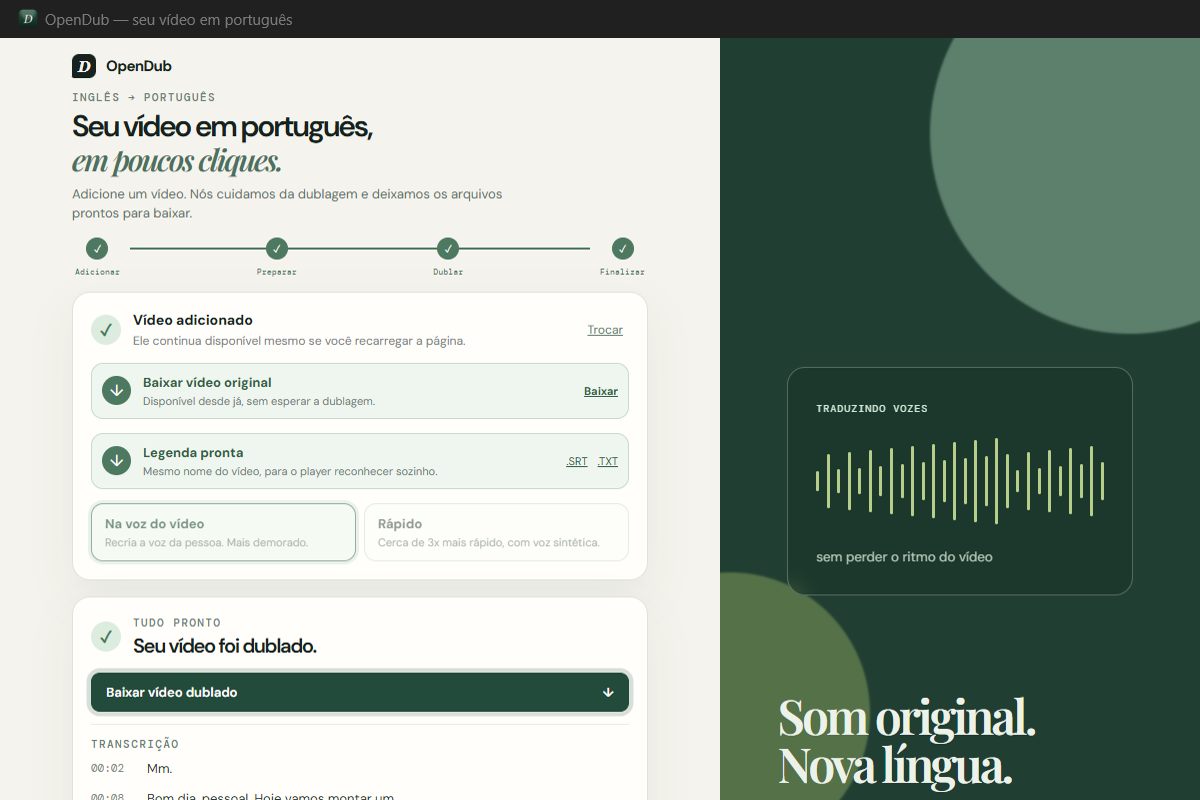
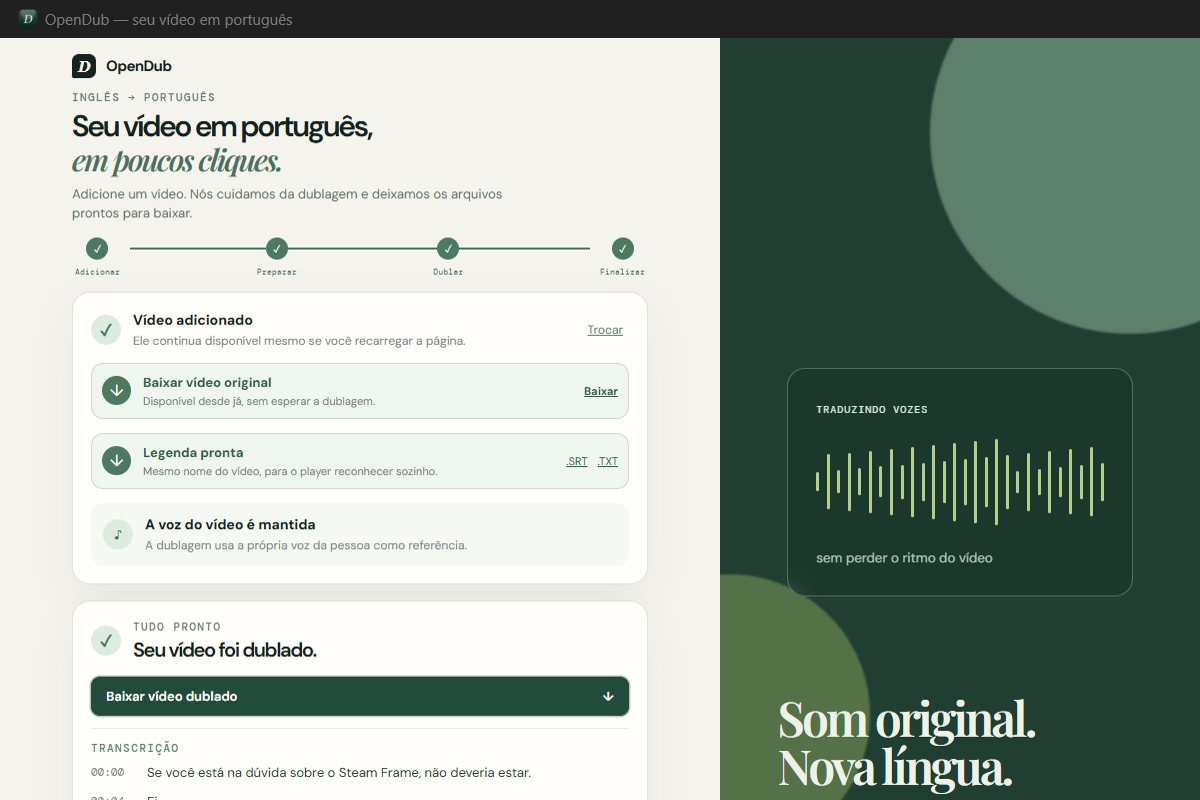
Atualizar docs, imagens e landing para a interface atual
As imagens estavam vendendo um recurso que nao existe mais: demo.gif e
screenshot.png foram gravados antes da remocao do modo rapido e mostravam o seletor
"Na voz do video / Rapido" bem no meio da tela. Regravados com a interface de agora,
onde aquele espaco e o aviso "A voz do video e mantida", e ja com os downloads de
original e legenda no lugar novo.

As notificacoes nao estavam documentadas em lugar nenhum. docs/architecture.md ganhou
uma secao com a API (toast.success/error/warning/info), o que avisa, e o registro do
motivo pelo qual a saida e CSS e nao AnimatePresence -- com framer-motion o no ficava
no DOM com opacity 0, invisivel mas capturando clique. O README ganhou uma linha
dizendo que cada etapa avisa e que o download informa a pasta.

Na landing, o passo "Baixar" passou a mencionar que o app diz onde salvou cada
arquivo, o passo "Dublar" fala do acompanhamento das etapas, e a lista da
demonstracao troca "traduz e dubla automaticamente" pela voz clonada, que e o
diferencial. Evitei repetir "voz de robo", que ja aparece nos recursos.

diff --git a/landing/site/index.html b/landing/site/index.html
@@ -79,7 +79,7 @@
         <h2>Cole o link, clique em dublar, pronto.</h2>
         <ul class="checklist">
           <li>Aceita link do YouTube ou vídeo do computador</li>
-          <li>Traduz e dubla automaticamente para português</li>
+          <li>Usa a própria voz de quem fala no vídeo como referência</li>
           <li>Mantém música, efeitos e cortes do vídeo original</li>
           <li>Gera legenda (.srt) e transcrição (.txt) em português</li>
         </ul>
@@ -142,12 +142,12 @@
       <div class="how-step reveal">
         <span class="how-num">2</span>
         <h3>Dublar</h3>
-        <p>Clique em um botão e deixe o OpenDub trabalhar.</p>
+        <p>Clique em um botão e acompanhe as etapas até o vídeo ficar pronto.</p>
       </div>
       <div class="how-step reveal">
         <span class="how-num">3</span>
         <h3>Baixar</h3>
-        <p>Pegue o vídeo dublado, a legenda e o vídeo original.</p>
+        <p>Pegue o vídeo dublado, a legenda e o original — o app avisa em que pasta salvou cada um.</p>
       </div>
     </div>
   </section>

diff --git a/docs/architecture.md b/docs/architecture.md
@@ -134,8 +134,31 @@ ambientes e por arquivo JSON, em `backend/scripts/asr_worker.py` e `tts_worker.p
 | React 18 | Estado e interface. |
 | Vite | Servidor de desenvolvimento e build estatico. |
 | Framer Motion | Progresso, entradas/saidas de cards, resultado e spinners. |
+| `src/toast.js` e `src/Toaster.jsx` | Notificacoes na tela, no mesmo padrao usado no CRM. |
 | Electron 30 | Janela desktop e inicio do backend local. |
 | Electron Builder/NSIS | Empacotamento do instalador Windows. |
+
+## Notificacoes na interface
+
+`src/toast.js` expoe `toast.success/error/warning/info(mensagem, duracao)` e
+`src/Toaster.jsx` desenha a pilha no canto superior direito -- mesma API e mesma
+linguagem visual do Toaster do CRM, com borda esquerda colorida por tipo, botao de fechar
+e barra que esvazia no tempo da notificacao. Maximo de cinco na tela.
+
+Duas diferencas de stack em relacao ao CRM: os icones sao SVG inline (o projeto nao usa
+lucide-react) e as animacoes sao CSS. Tentar fazer a saida com `AnimatePresence` do
+framer-motion deixava o no no DOM para sempre com `opacity: 0` -- invisivel, mas
+acumulando e capturando clique, porque `pointer-events` continuava ativo. A mecanica do
+CRM (estado `saindo` + remover da lista depois de 220 ms) nao tem esse problema.
+
+Avisam: video adicionado, dublagem concluida, legenda pronta (com o numero de falas),
+cada download concluido e as falhas de todas essas etapas. Tambem cobrem dois casos que
+antes aconteciam em silencio -- a sessao descartada quando o job nao existe mais no
+backend, e o arquivo recusado por nao ser video.
+
+Os downloads dizem **onde** o arquivo foi salvo (`<arquivo> salvo na pasta Downloads`).
+O processo principal manda `download-done` para todo download, com nome e pasta; antes
+havia um evento so para o video dublado, e sem o caminho.
 
 ## Configuracao e variaveis importantes
 

diff --git a/README.md b/README.md
@@ -28,6 +28,9 @@ para uma visão geral, demonstração em vídeo e o link de download.
 5. Baixe o vídeo dublado. A legenda pode ser gerada e baixada assim que a dublagem
    termina, e o vídeo original fica disponível desde o começo.
 
+A cada etapa concluída aparece um aviso no canto da tela, e ao baixar qualquer arquivo o
+aviso diz **em que pasta ele foi salvo**.
+
 Os arquivos baixados usam o nome do seu vídeo: `meu video.mp4` (original),
 `meu video_dublado.mp4` e `meu video.srt`. Como a legenda tem o mesmo nome do vídeo, a
 maioria dos players a reconhece sozinha.
